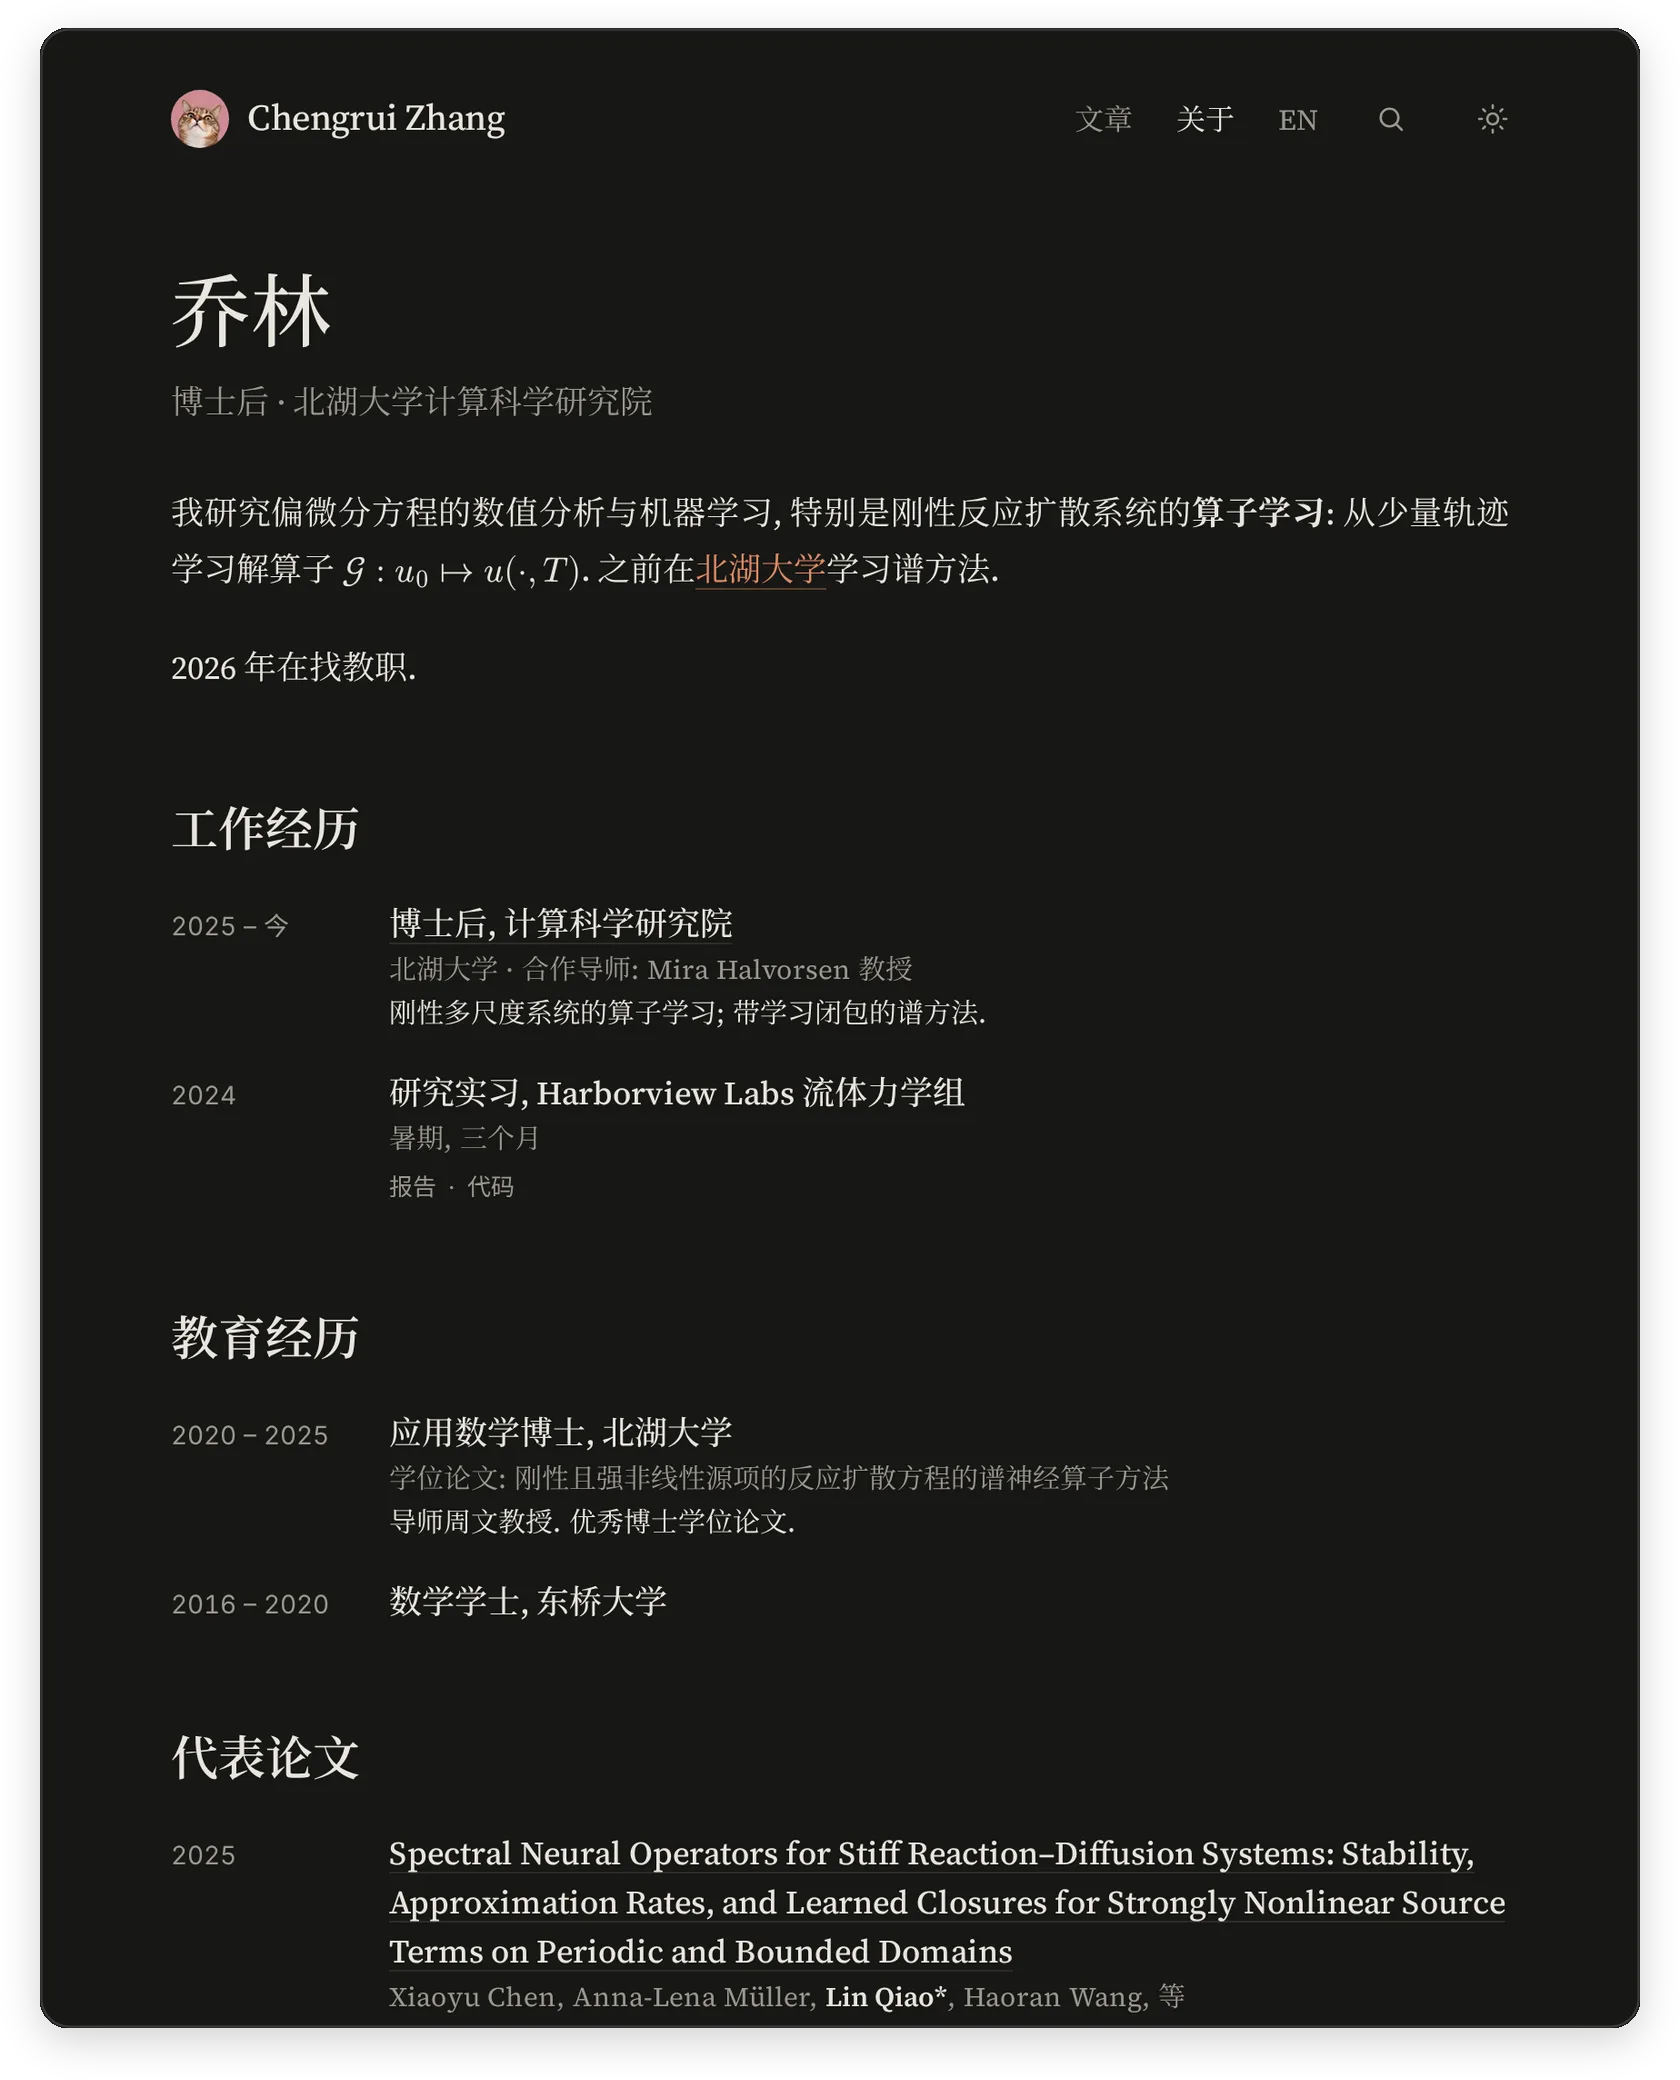
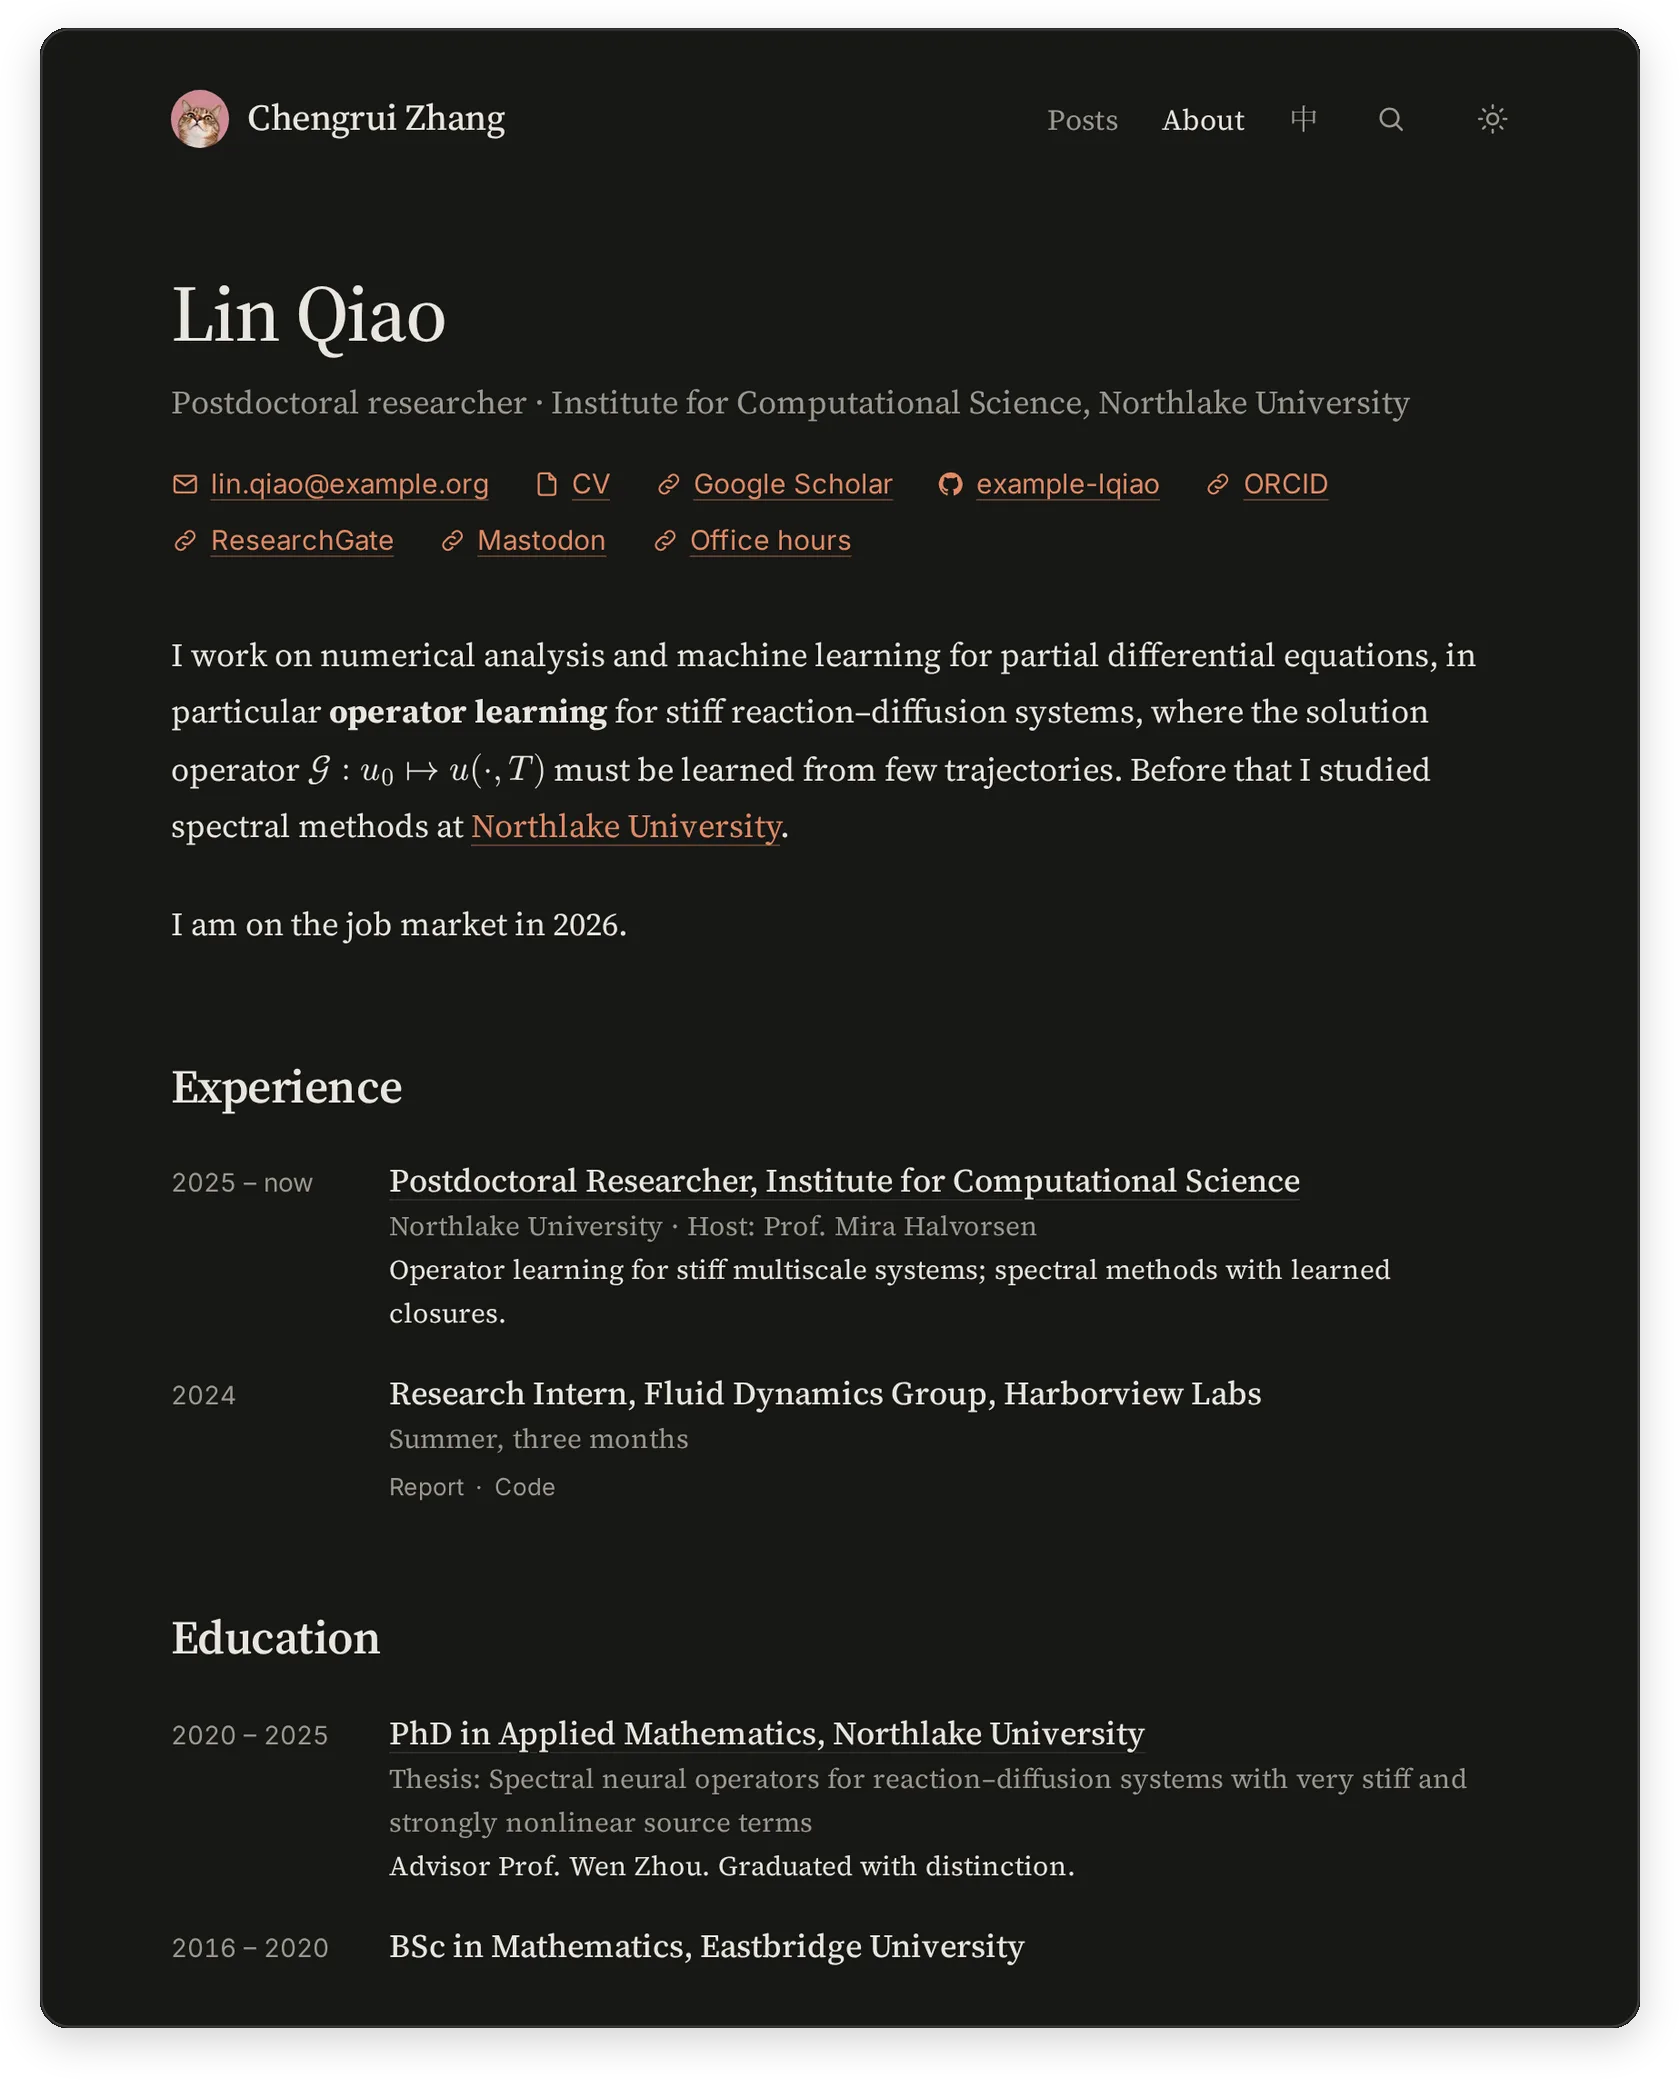
feat(about): show contact links plainly, drop them from the footer
The links under the name now read as links: an icon, then the email
address, the GitHub user name or the label, in the terracotta with a
faint underline that links in the text use. A language with an About
page leaves Email and GitHub out of its footer.

diff --git a/src/styles/global.css b/src/styles/global.css
@@ -465,9 +465,52 @@ main:focus {
   color: var(--accent);
 }
 
+/* Contact links under the name: an icon, then the address, user name or
+   label, set as links in the text are, so they read as links at a glance. */
 .about-links {
-  margin-top: 1rem;
-  font-size: 0.875rem;
+  display: flex;
+  flex-wrap: wrap;
+  gap: 0.25rem 1.5rem;
+  margin: 1.25rem 0 0;
+  padding: 0;
+  list-style: none;
+  font-family: var(--font-sans);
+  font-size: 0.9375rem;
+  line-height: 1.6;
+}
+
+.about-links a {
+  display: inline-flex;
+  align-items: center;
+  gap: 0.4em;
+  /* A 2.75rem hit area, as in .link-row, without making the row taller. */
+  padding-block: round(up, (2.75rem - 1lh) / 2, 1px);
+  margin-block: calc(-1 * round(up, (2.75rem - 1lh) / 2, 1px));
+  color: var(--accent);
+  text-decoration: underline;
+  text-decoration-color: color-mix(in srgb, var(--accent) 35%, transparent);
+  text-underline-offset: 0.2em;
+  white-space: nowrap;
+}
+
+.about-links a:hover {
+  text-decoration-color: currentColor;
+}
+
+.about-links svg {
+  flex: none;
+  width: 1.05em;
+  height: 1.05em;
+  fill: none;
+  stroke: currentColor;
+  stroke-width: 1.75;
+  stroke-linecap: round;
+  stroke-linejoin: round;
+}
+
+.about-links svg .fill {
+  fill: currentColor;
+  stroke: none;
 }
 
 /* The address, for paper only (see Print). */

diff --git a/DESIGN.md b/DESIGN.md
@@ -204,7 +204,7 @@ Small, quiet radii that grow with the size of the thing: 1px TOC ticks, 2px focu
 
 ### Navigation
 - **Header:** 32px circular avatar and serif wordmark on the left; serif links at 1rem (Posts, About, language switch EN/中) and two icon buttons on the right, search and a sun/moon theme toggle (44px hit areas, Graphite, Ink on hover). Links are muted and turn Ink on hover; the current page's link stays Ink. About appears only for a language that has an about page. Below 27rem the avatar stands alone (the name stays the link's accessible name), so the links fit at 320px with room to spare.
-- **Footer:** © line, then Email, GitHub and RSS links; wraps to two rows at 320px.
+- **Footer:** © line, then Email, GitHub and RSS links; wraps to two rows at 320px. In a language with an About page, Email and GitHub are left out: the page's contact links stand in for them.
 - **Tap targets:** small text links get a 2.75rem hit area through padding and matching negative margins.
 
 ### Search panel
@@ -242,8 +242,9 @@ Small, quiet radii that grow with the size of the thing: 1px TOC ticks, 2px focu
 - **Order:** title; a sans meta line (date · reading time · sections, and "Read in English" on the right); the abstract, then keywords, both indented like a paper's.
 
 ### About page
-- **Head:** the name in Display, the tagline in serif Graphite, a link row, then the bio as body text.
-- **Link row:** sans links in Graphite, separated by middle dots that stay with the link before them (a wrapped row never starts with a dot); terracotta on hover. 0.875rem under the name, 0.8125rem under an entry. The BibTeX copy button is set as one more link and shows 已复制 / Copied for 1.5s.
+- **Head:** the name in Display, the tagline in serif Graphite, the contact links, then the bio as body text.
+- **Contact links:** under the name, sans 0.9375rem, each a small icon (mail, GitHub, file, link) and what the link leads to: the email address, the GitHub user name, otherwise its label. Set as links in the text are (terracotta, faint underline that darkens on hover), so they read as links at a glance; 1.5rem apart, wrapping, no dots.
+- **Link row:** sans links in Graphite, separated by middle dots that stay with the link before them (a wrapped row never starts with a dot); terracotta on hover. 0.8125rem, under an entry. The BibTeX copy button is set as one more link and shows 已复制 / Copied for 1.5s.
 - **Sections:** an unnumbered Headline, then entries in two columns like the post list: the date in a 6rem sans column (Graphite, tabular numbers) on the title's baseline, and the entry in serif: title at 1.125rem / 500 (an ordinary link when it has one), a Graphite subtitle and a note at 0.9375rem, a link row. Below 40rem the date moves above its entry.
 - **Publications:** newest first, the year on the first entry of each year only. Authors in Graphite with the owner's name in bold Ink; the venue in italic, upright when it is Chinese. No cards, boxes or fills.
 - **Print:** black on white with no header, footer or copy buttons; the links under the name print as their addresses; no entry is split across pages.

diff --git a/README.md b/README.md
@@ -145,14 +145,14 @@ Write `.md`, not `.mdx`: MDX reads `{`, `}` and `<` as JSX and breaks TeX. The b
 
 <picture>
   <source media="(prefers-color-scheme: dark)" srcset="docs/img/about-dark.webp">
-  <img src="docs/img/about-light.webp" alt="The About page of the sample profile: name, bio and dated entries" width="800">
+  <img src="docs/img/about-light.webp" alt="The About page of the sample profile: name, contact links, bio and dated entries" width="800">
 </picture>
 
 `/about/` and `/en/about/` are built from `src/content/about/`, a folder that holds content only:
 
 | File | What it holds |
 | --- | --- |
-| `zh.md`, `en.md` | frontmatter: `title`, `name`, `tagline`, `links`, `self`, `sections` (publications included); the body is the bio. Without a file, that language has no about page and no About link. |
+| `zh.md`, `en.md` | frontmatter: `title`, `name`, `tagline`, `links`, `self`, `sections` (publications included); the body is the bio. Without a file, that language has no about page and no About link. The `links` under the name show an email address, a GitHub user name or the label, each with an icon; with an about page, the footer drops its Email and GitHub links. |
 | any other file | linked by a relative `href`, `pdf` or `url` (`cv.pdf`, `cv.pdf#page=2`), published at `/about/cv.pdf`. Files nobody links to are not published, and neither are `zh.md` and `en.md`. |
 
 ```yaml

diff --git a/WRITING.md b/WRITING.md
@@ -157,6 +157,8 @@ sections:
           - { label: 课题组, href: 'https://example.com' }
 ```
 
+姓名下面的 `links` 会显示链接的去向: `mailto:` 显示邮箱地址, `https://github.com/<用户名>` 显示用户名, 其他链接显示 `label`, 前面各有一个图标. 有关于页的语言, 页脚就不再显示邮箱和 GitHub.
+
 条目字段: `when` (左栏时间, 原样显示), `title` (必填), `subtitle`, `note`, `href`, `links`. 值里有 "冒号 + 空格" 时要加引号.
 
 字段名写错, 或者值的类型不对 (比如 `year: '2025'`, 没加引号的 arXiv 编号), 构建会报错, 并指出是哪个字段, 例如 `sections.3.publications.2.year`. 顶层的 `tagline:`, `links:`, `self:`, `sections:` 后面留空, 等于没写.
